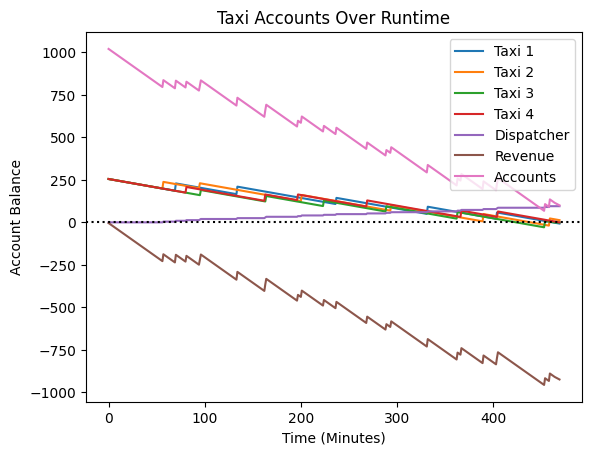
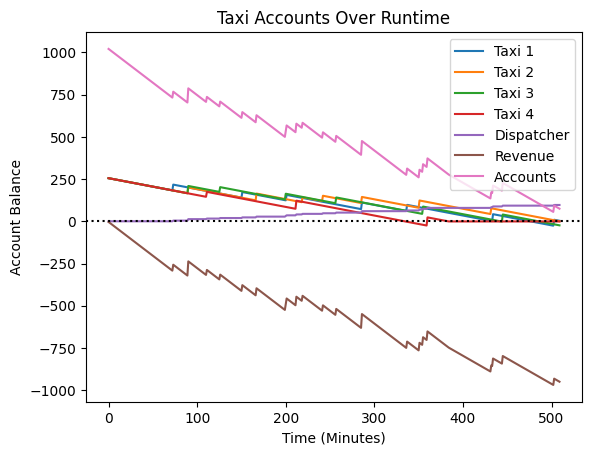
Final Upload

diff --git a/dispatcher.py b/dispatcher.py
@@ -199,14 +199,19 @@ class Dispatcher:
 
     # TODO - improve costing
     def _costFare(self, fare):
+
         timeToDestination = self._parent.travelTime(self._parent.getNode(fare.origin[0], fare.origin[1]),
                                                     self._parent.getNode(fare.destination[0], fare.destination[1]))
+
+
+
+        #print(f"TIME: {timeToDestination}")
+
         # if the world is gridlocked, a flat fare applies.
         if timeToDestination < 0:
             return 150
         return (25 + timeToDestination) / 0.9
 
-    # TODO
     # this method decides which taxi to allocate to a given fare. The algorithm here is not a fair allocation
     # scheme: taxis can (and do!) get starved for fares, simply because they happen to be far away from the
     # action. You should be able to do better than that using some form of CSP solver (this is just a suggestion,
@@ -239,16 +244,16 @@ class Dispatcher:
                         # print(currentLocNode)
                         if self._taxis[tId]._passenger == None:
                             taxiRepo[tId][0] = "Available"
-                            distanceScore = self._parent.travelTime(currentLocNode, self._parent.getNode(destination[0],destination[1]))
+                            distanceScore = abs(self._parent.travelTime(currentLocNode, self._parent.getNode(destination[0],destination[1])))
                             distanceScore += 1
                             taxiRepo[tId][1] = 100 / (distanceScore)
                         else:
                             taxiRepo[tId][0] = "Unavailable"
                             currentDistNode = self._parent.getNode(self._taxis[tId]._path[-1][0], self._taxis[tId]._path[-1][1])
-                            distanceScore = self._parent.travelTime(currentLocNode, currentDistNode)
+                            distanceScore = abs(self._parent.travelTime(currentLocNode, currentDistNode))
                             distanceScore += 1
                             taxiRepo[tId][1] = 100 / (distanceScore)
-                    print(taxiRepo)
+                    #print(taxiRepo)
                 #print(f"Keys: {list(taxiRepo.keys())}")
                 lowestVal = taxiRepo[(list(taxiRepo.keys())[0])][1]
                 lowestId = 0
@@ -265,77 +270,7 @@ class Dispatcher:
                 self._fareBoard[origin][destination][time].taxi = lowestId
                 self._parent.allocateFare(origin, self._taxis[lowestId])
 
-                '''
-                    for t in self._taxis:
-                        currentLocNode = self._parent.getNode(t.currentLocation[0], t.currentLocation[1])
-                        # print(currentLocNode)
-                        if t._passenger == None:
-                            taxiRepo[taxiIdx][0] = "Available"
-                            distanceScore = self._parent.travelTime(currentLocNode, self._parent.getNode(destination[0],
-                                                                                                         destination[
-                                                                                                             1]))
-                        else:
-                            taxiRepo[taxiIdx][0] = "Unavailable"
-                            currentDistNode = self._parent.getNode(t._path[-1][0], t._path[-1][1])
-                            distanceScore = self._parent.travelTime(currentLocNode, currentDistNode)
 
-                        distanceScore += 1
-                        taxiRepo[taxiIdx][0] = 100 / distanceScore
-                        #print(taxiRepo[taxiIdx])
-                    print("NEXT")
-
-                print("NEXT2")
-
-            print(taxiRepo)
-
-                #lowest = min(taxiRepo, key=taxiRepo.get)
-
-                #lowest = taxiRepo.items()
-                #print(min(taxiRepo, key=taxiRepo.get))
-
-                    # print(currentTaxis)
-                #lowestList = numpy.array(currentTaxis)
-                #lowestList = lowestList[numpy.lexsort((lowestList[:, 1], lowestList[:, 2]))]
-
-                #for n in range(len(currentTaxis[1])):
-                #    pass
-                # print(lowestList)
-            '''
-            '''
-                for taxiIdx in self._fareBoard[origin][destination][time].bidders:
-                    if len(self._taxis) > taxiIdx:
-                        currentTaxis[taxiIdx][0] = taxiIdx
-                        print(currentTaxis[taxiIdx][0])
-                        currentTaxis[taxiIdx][1] = 1
-                        print(currentTaxis[taxiIdx][1])
-                        currentTaxis[taxiIdx][2] = 0
-                        print(currentTaxis[taxiIdx][2])
-                        #print("CUR: ",currentTaxis)
-                print(f"{currentTaxis}")
-                print("NEXT")
-                if len(currentTaxis) > 0:
-                    taxiIter = 0
-                    for t in self._taxis:
-                        currentLocNode = self._parent.getNode(t.currentLocation[0], t.currentLocation[1])
-                        #print(currentLocNode)
-                        if t._passenger == None:
-                            currentTaxis[taxiIter][1] = 1
-                            distanceScore = self._parent.travelTime(currentLocNode, self._parent.getNode(destination[0], destination[1]))
-                        else:
-                            currentDistNode = self._parent.getNode(t._path[-1][0], t._path[-1][1])
-                            distanceScore = self._parent.travelTime(currentLocNode, currentDistNode)
-
-                        distanceScore += 1
-                        currentTaxis[taxiIter][2] = 100/distanceScore
-                        taxiIter += 1
-                #print(currentTaxis)
-                lowestList = numpy.array(currentTaxis)
-                lowestList = lowestList[numpy.lexsort((lowestList[:,1], lowestList[:,2]))]
-
-                for n in range(len(currentTaxis[1])):
-                    pass
-                #print(lowestList)
-            '''
 
 
         else:

diff --git a/taxi.py b/taxi.py
@@ -324,7 +324,7 @@ class Taxi:
     ''' HERE IS THE PART THAT YOU NEED TO MODIFY
     '''
 
-    # TODO
+    # TODO Add Probabilistic
     # this function should build your route and fill the _path list for each new
     # journey. Below is a naive depth-first search implementation. You should be able
     # to do much better than this!
@@ -421,7 +421,8 @@ class Taxi:
     # a hint that maybe some form of CSP solver with automated reasoning might be a good way of implementing this. But
     # other methodologies could work well. For best results you will almost certainly need to use probabilistic reasoning.
     def _bidOnFare(self, time, origin, destination, price):
-        NoCurrentPassengers = self._passenger is None
+        '''
+
         NoAllocatedFares = len([fare for fare in self._availableFares.values() if fare.allocated]) == 0
         TimeToOrigin = self._world.travelTime(self._loc, self._world.getNode(origin[0], origin[1]))
         TimeToDestination = self._world.travelTime(self._world.getNode(origin[0], origin[1]),
@@ -440,3 +441,98 @@ class Taxi:
         Worthwhile = PriceBetterThanCost and NotCurrentlyBooked
         Bid = CloseEnough and Worthwhile
         return Bid
+        '''
+
+        fareAmountToConsider = 2
+
+        bidChance = 100
+        dist = 0
+        multiplier = 1
+        NoCurrentPassengers = self._passenger is None
+
+        AllocatedFares = [fare for fare in self._availableFares.values() if fare.allocated]
+        TimeToOrigin = self._world.travelTime(self._loc, self._world.getNode(origin[0], origin[1]))
+        TimeToDestination = self._world.travelTime(self._world.getNode(origin[0], origin[1]),
+                                                   self._world.getNode(destination[1], destination[1]))
+        FiniteTimeToOrigin = TimeToOrigin > 0
+        CanAffordToDrive = self._account > TimeToOrigin
+        FiniteTimeToDestination = TimeToDestination > 0
+        FareExpiryInFuture = self._maxFareWait > self._world.simTime - time
+        EnoughTimeToReachFare = self._maxFareWait - self._world.simTime + time > TimeToOrigin
+        FairPriceToDestination = price > TimeToDestination
+        PriceBetterThanCost = FairPriceToDestination and FiniteTimeToDestination
+        SufficientDrivingTime = FiniteTimeToOrigin and EnoughTimeToReachFare
+        WillArriveOnTime = FareExpiryInFuture and SufficientDrivingTime
+        CloseEnough = CanAffordToDrive and WillArriveOnTime and PriceBetterThanCost
+
+
+        '''
+        CSP Factors:
+        Potential Traffic per each node.
+        Current Distance Away.
+        Current Allocations.
+        Can get to Node.
+        Current Node Traffic.
+        Destination Node Traffic.
+        Origin Node Traffic.
+        Potential for closer customer
+        '''
+
+
+
+        dist = TimeToOrigin
+        if not NoCurrentPassengers:
+            curNode = self._world.getNode(self._path[-1][0], self._path[-1][1])
+            customerNode = self._world.getNode(origin[0], origin[1])
+            destNode = self._world.getNode(destination[0], destination[1])
+            if len(AllocatedFares) > fareAmountToConsider:
+                bidChance = 0
+            else:
+                for i in self._availableFares.items():
+                    if i[1].allocated:
+                        currentCustomerNode = self._world.getNode(i[1].destination[0],i[1].destination[1])
+                if len(AllocatedFares) == 1:
+                    #print(type(curNode), type(currentCustomerNode))
+                    dist = self._world.travelTime(curNode, currentCustomerNode)
+                    dist += self._world.travelTime(currentCustomerNode, customerNode)
+                else:
+                    currentCustomerNode = self._world.getNode(AllocatedFares[1].destination[0], AllocatedFares[1].destination[1])
+                    dist = self._world.travelTime(self._loc, curNode)
+                    dist += self._world.travelTime(curNode, currentCustomerNode)
+
+                potCost = price + ((-dist) + self._world.travelTime(customerNode, destNode))
+                #print(potCost)
+                bidChance -= 5 * destNode.capacity * multiplier
+                bidChance -= 5 * customerNode.capacity * multiplier
+                bidChance -= 100 / math.exp(potCost) * multiplier
+
+        else:
+            multiplier = 0.5
+        if self._account > dist and bidChance > 0:
+            approxNodes = abs(round((dist - self._world.averageDistance) / self._world.averageDistance))
+            trafficChance = self._world.averageTraffic*approxNodes
+            bidChance -= 10 * trafficChance * multiplier
+            bidChance -= 5 * self._loc.capacity * multiplier
+        else:
+            bidChance = 0
+
+        if self._account < TimeToOrigin or not CloseEnough or self._account < dist:
+            bidChance = 0
+
+        print(f"Bid Chance: {bidChance}% Multiplier: {multiplier}, Viable: {CloseEnough}")
+        bidChance /= 100
+        bidChance = numpy.clip(bidChance, 0, 1)
+        if bidChance > 0:
+            bid = numpy.random.choice([True,False], size=1, p=[bidChance, 1-bidChance])
+            print(bid)
+        else:
+            bid = False
+        return bid
+
+
+
+
+
+
+
+

diff --git a/networld.py b/networld.py
@@ -495,11 +495,30 @@ class NetWorld:
         self._dispatcher = None
         if jctNodes is not None:
             self.addNodes(jctNodes)
+            xCoords = []
+            yCoords = []
+            avTraffic = 0
+            for junc in jctNodes:
+                xCoords.append(junc.x)
+                yCoords.append(junc.y)
+                avTraffic += junc.tSrc
+            self._averageTraffic = avTraffic/len(jctNodes)
+
+            distance = 0
+            for i in range(len(xCoords)):
+                x1 = xCoords[i]
+                y1 = yCoords[i]
+                for ii in range(i + 1, len(xCoords)):
+                    x2 = xCoords[ii] - x1
+                    y2 = yCoords[ii] - y1
+                    distance += math.sqrt((x2 - x1)**2 + (y2 - y1)**2)
+            self._distance = 2 * distance / (len(xCoords) * (len(xCoords) - 1))
         if edges is not None:
             self.addEdges(edges, interpolateNodes)
         # self.eventQ = NetEventQueue()
         # the simulation clock.
         self._time = 0
+
 
     # properties
 
@@ -513,6 +532,14 @@ class NetWorld:
     @property
     def size(self):
         return len(self._net)
+
+    @property
+    def averageDistance(self):
+        return self._distance
+
+    @property
+    def averageTraffic(self):
+        return self._averageTraffic
 
     # __________________________________________________________________________________________________________
     # methods to build the graph and place agents in it
@@ -805,6 +832,7 @@ class NetWorld:
                 return 0
         # a travel time of -1 indicates an indefinite wait into the future. We are, in other words,
         # not getting anywhere anytime soon.
+        #print(origin.traffic, origin.maxTraffic, destination.traffic, destination.maxTraffic)
         if origin.traffic == origin.maxTraffic or destination.traffic == destination.maxTraffic:
             return -1
         # all other destinations take finite time to reach.

diff --git a/RoboUber.py b/RoboUber.py
@@ -12,7 +12,7 @@ import dataplot
 
 # create objects for RoboUber
 
-# TODO
+# TODO Experiment with Settings
 # experiment with parameter settings. worldX and worldY should not need to be
 # changed, but others are fair game!
 # basic parameters
@@ -22,7 +22,7 @@ days = 3
 runTime = 1440 * days
 # you can change the DisplaySize to be bigger if you want larger-size objects on-screen
 displaySize = (1280, 960)
-trafficOn = False
+trafficOn = True
 
 uberSpeedTime = 0.001
 
